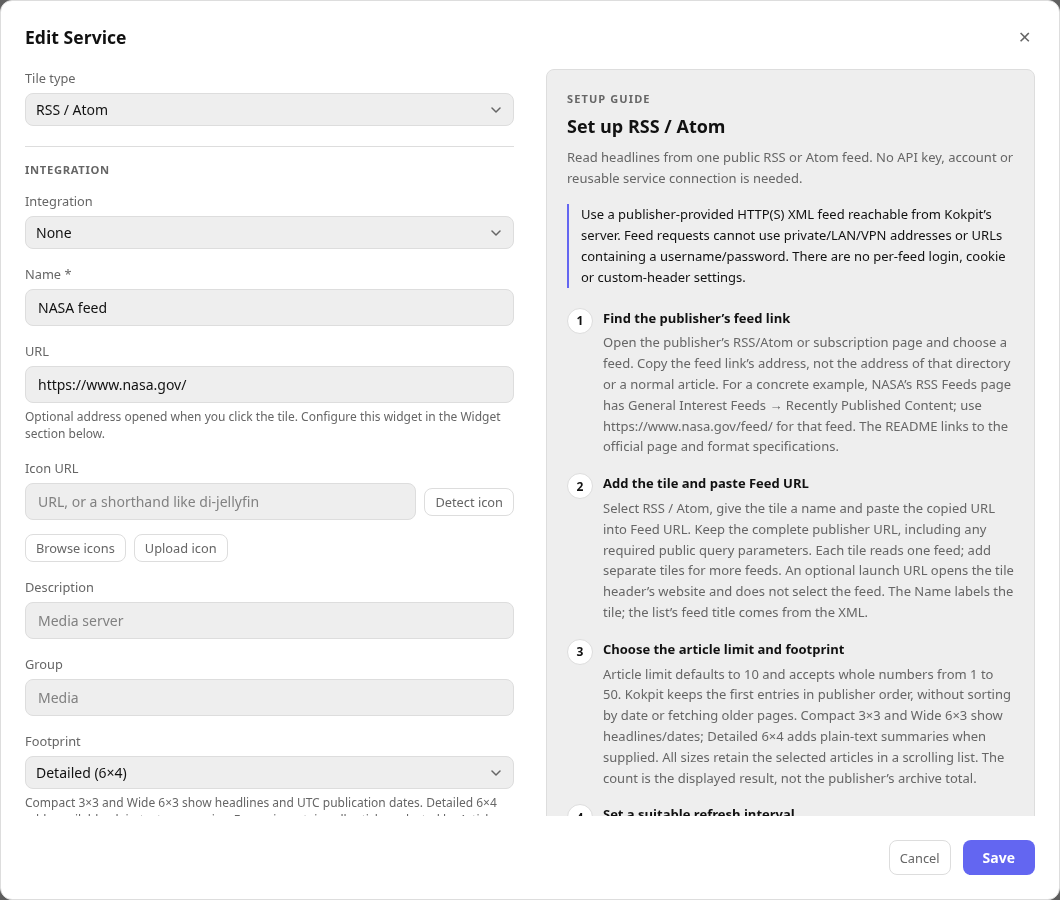
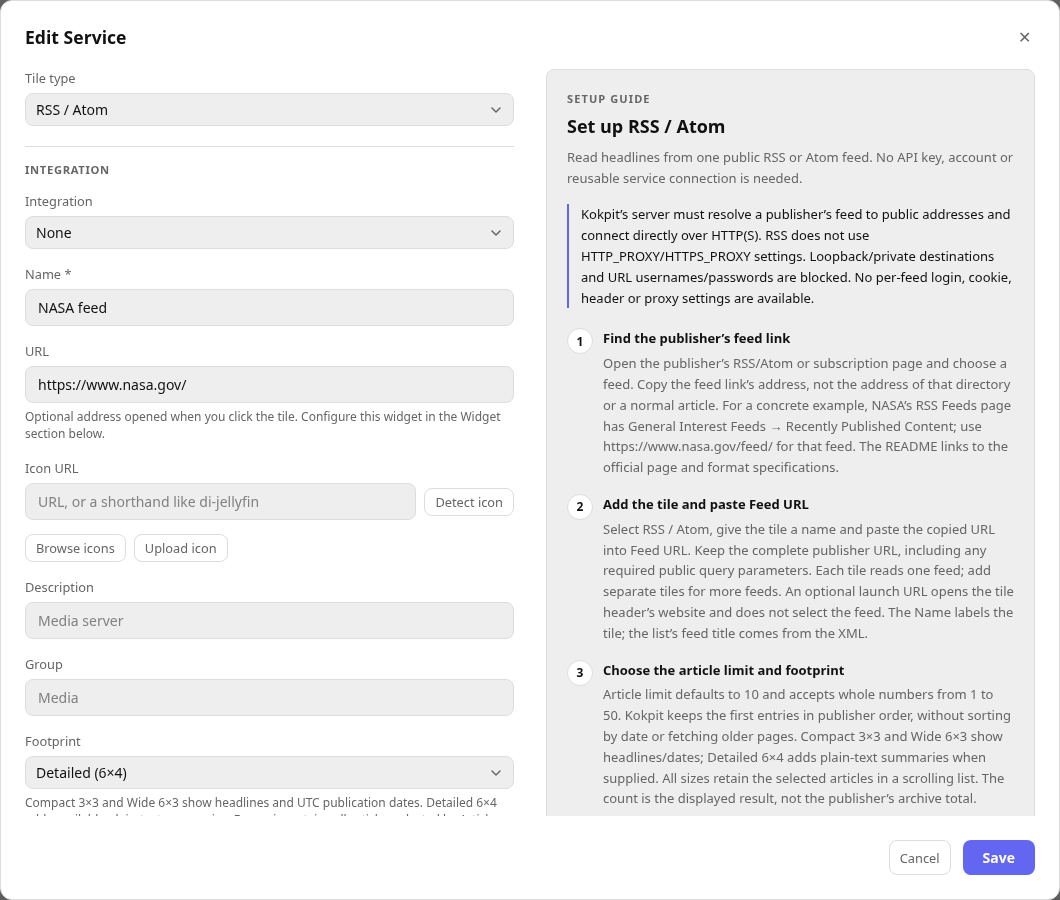
docs(rss): clarify direct network access requirement

Changed region(s): [[0.5292, 0.2178, 0.9651, 0.9333]]

diff --git a/src/integrations/rss/setupGuide.ts b/src/integrations/rss/setupGuide.ts
@@ -3,7 +3,7 @@ import type { WidgetSetupGuide } from "@/widgets";
 export const rssSetupGuide: WidgetSetupGuide = {
   title: "Set up RSS / Atom",
   summary: "Read headlines from one public RSS or Atom feed. No API key, account or reusable service connection is needed.",
-  requirement: "Use a publisher-provided HTTP(S) XML feed reachable from Kokpit’s server. Feed requests cannot use private/LAN/VPN addresses or URLs containing a username/password. There are no per-feed login, cookie or custom-header settings.",
+  requirement: "Kokpit’s server must resolve a publisher’s feed to public addresses and connect directly over HTTP(S). RSS does not use HTTP_PROXY/HTTPS_PROXY settings. Loopback/private destinations and URL usernames/passwords are blocked. No per-feed login, cookie, header or proxy settings are available.",
   steps: [
     {
       title: "Find the publisher’s feed link",
@@ -33,7 +33,7 @@ export const rssSetupGuide: WidgetSetupGuide = {
     },
     {
       title: "It opens in my browser but Kokpit cannot fetch it",
-      description: "The server/container must reach the feed and every redirect target through public addresses. Localhost, private networks, metadata endpoints and mixed public/private DNS answers are blocked for feeds. A browser’s login session/cookies are not copied to Kokpit, and embedded URL usernames/passwords are rejected. Check public DNS, outbound HTTP(S), proxy and trusted certificates. Feed URL is ordinary configuration, not a masked secret field; use a public publisher feed rather than a URL containing private credentials.",
+      description: "The server/container must resolve feed/redirect hosts to public addresses and connect to them directly over HTTP(S). RSS fetches do not use inherited HTTP(S) forward-proxy settings, including HTTP_PROXY/HTTPS_PROXY. There is no per-feed proxy option; a deployment requiring a forward proxy cannot use that route for this fetcher. Localhost, private networks, metadata endpoints and mixed public/private DNS answers are blocked for feeds. A browser’s login session/cookies are not copied to Kokpit, and embedded URL usernames/passwords are rejected. Check DNS resolution, permitted direct outbound HTTP(S) and trusted certificates. Feed URL is ordinary configuration, not a masked secret field; use a public publisher feed rather than a URL containing private credentials.",
     },
     {
       title: "Fewer articles, unexpected order or old content",

diff --git a/src/integrations/rss/widget.tsx b/src/integrations/rss/widget.tsx
@@ -29,7 +29,7 @@ export function RssWidget({ data, loading, error, footprint }: WidgetProps<RssDa
   </WidgetBody>;
 }
 const FIELDS: WidgetConfigField[] = [
-  { key: "feed_url", label: "Feed URL", type: "url", required: true, placeholder: "https://example.com/feed.xml", description: "Required public HTTP(S) RSS/Atom XML feed, up to 2,048 characters, not a normal page or article. Copy the publisher’s feed link; one feed per tile. Kokpit fetches it server-side. Private/LAN/VPN destinations and URLs with username/password are blocked. No login/cookie/header fields are available." },
+  { key: "feed_url", label: "Feed URL", type: "url", required: true, placeholder: "https://example.com/feed.xml", description: "Required public HTTP(S) RSS/Atom XML feed, up to 2,048 characters, not a normal page or article. Copy the publisher’s feed link; one feed per tile. Kokpit connects directly from the server; HTTP_PROXY/HTTPS_PROXY are not used. Loopback/private destinations and URLs with username/password are blocked. No login/cookie/header fields are available." },
   { key: "max_items", label: "Article limit", type: "number", defaultValue: 10, description: "Whole numbers 1–50; default 10. Keep the first entries in publisher order, with scrolling at every size. This is a maximum, not archive pagination or a newest-first sort. The full feed is still downloaded and must fit its document limits." },
 ];
 registerWidget<RssConfig, RssData>({ id: "rss", name: "RSS / Atom", integrationType: null, configSchema: RssConfigSchema,

diff --git a/README.md b/README.md
@@ -865,7 +865,7 @@ Read one public feed per tile, with no service integration, account or API key. 
 4. Leave **Refresh interval (ms)** empty for `600000` (ten minutes), or use an interval suitable for the publisher. The minimum is `5000` (five seconds); more frequent polling and additional viewers increase requests. Each open tile polls independently. Feed TTL/push notifications do not automatically change Kokpit’s configured schedule.
 5. **Test** when enabled, then save the form and finish the normal dashboard save flow; otherwise save and inspect the list. Test fetches the draft feed before saving. Check the feed title, count and article links. A valid empty feed can pass Test and show **No articles in this feed**. A later refresh error can retain previously loaded articles with a warning.
 
-**When a feed fails:** the Kokpit server/container must reach every HTTP(S) destination and redirect through public addresses. Localhost, private/LAN/VPN networks, metadata endpoints and mixed public/private DNS answers are blocked for feeds. Browser CORS restrictions do not apply to this server fetch, but the browser’s login/cookies are not transferred, and JavaScript/bot challenges do not run. No per-feed login, cookie or custom-header fields exist; URLs with embedded username/password are rejected. Feed URL is ordinary configuration rather than a masked credential field: use the publisher’s public feed instead of a private credential-bearing URL. Check server DNS, outbound HTTP(S), proxy/trusted certificates and whether the response is XML rather than HTML or a login page. Lowering Article limit does not bypass document-size/XML restrictions. Publisher errors or rate limiting are reasons to keep/increase the interval rather than repeatedly testing.
+**When a feed fails:** the Kokpit server/container must resolve feed/redirect hosts to public addresses and connect to them directly over HTTP(S). RSS fetches do not use inherited forward-proxy settings such as `HTTP_PROXY`/`HTTPS_PROXY`; there is no per-feed proxy option, so a deployment requiring a forward proxy cannot use that route for this fetcher. Localhost, private address ranges (including typical LAN/VPN addresses), metadata endpoints and mixed public/private DNS answers are blocked for feeds. Browser CORS restrictions do not apply to this server fetch, but the browser’s login/cookies are not transferred, and JavaScript/bot challenges do not run. No per-feed login, cookie or custom-header fields exist; URLs with embedded username/password are rejected. Feed URL is ordinary configuration rather than a masked credential field: use the publisher’s public feed instead of a private credential-bearing URL. Check server DNS resolution, permitted direct outbound HTTP(S) and trusted certificates. Confirm the response is XML rather than HTML or a login page. Lowering Article limit does not bypass document-size/XML restrictions. Publisher errors or rate limiting are reasons to keep/increase the interval rather than repeatedly testing.
 
 Compact **3×3** and Wide **6×3** show headlines and publication dates; Detailed **6×4** adds plain-text summaries; binary Atom bodies are omitted. Every size retains the configured articles in feed order and uses a named, keyboard-scrollable list. Home/End reach the first/last article while the feed name and count stay fixed. Truncated headlines retain their full accessible link text and title tooltip. Publication dates use UTC and include the year; missing dates display “Date unavailable”. Articles without safe HTTP(S) links remain text. Article links open in a new tab; an optional service launch URL links only the tile header.
 
@@ -885,6 +885,8 @@ service_tiles:
 ```
 
 Every redirect destination is DNS-validated and pinned. Responses are limited to 2 MiB of UTF-8 XML; DTD/entity declarations are rejected, and nesting beyond 40 elements is rejected before DOM allocation. Common HTML named entities are supported in ordinary XML text while literal sections stay intact. Markup is parsed into inert text nodes, preserving escaped comparison signs and separating paragraphs; scripts/styles are omitted and feed HTML never executes in the dashboard. Text extraction processes at most 65,536 UTF-16 code units from each field, with 200-character feed titles and 500-character article titles/summaries. Empty or invalid summary/date fields try later alternatives. Safe RSS permalink GUIDs provide article links when a link is absent. Images, podcast media and linked full articles are not fetched or rendered. Missing dates show **Date unavailable**, missing article titles **Untitled article**, and missing usable HTTP(S) links leave plain headlines. Refresh errors preserve previously loaded articles and scroll position with the shared notice. No request is made until a feed is configured.
+
+The feed client passes its own pinned Undici dispatcher. Undici’s [Agent](https://github.com/nodejs/undici/blob/v8.9.0/docs/docs/api/Agent.md) and [EnvHttpProxyAgent](https://github.com/nodejs/undici/blob/v8.9.0/docs/docs/api/EnvHttpProxyAgent.md) documentation distinguish that direct agent from explicitly configured proxy routing; environment variables alone do not reconfigure this path.
 
 ### Weather (Open-Meteo)
 

diff --git a/docs/integration-setup-guidance-proposal.md b/docs/integration-setup-guidance-proposal.md
@@ -328,9 +328,9 @@ Checked 24 October 2026 against Open-Meteo’s [forecast API](https://open-meteo
 
 ### RSS / Atom documentation and implementation evidence
 
-Checked 24 October 2026 against the primary [RSS 2.0 specification](https://www.rssboard.org/rss-specification), [RSS 1.0/RDF specification](https://web.resource.org/rss/1.0/spec), [Atom RFC 4287](https://www.rfc-editor.org/rfc/rfc4287) and [NASA’s official RSS Feeds page](https://www.nasa.gov/rss-feeds/). The documentation footer opens Kokpit’s RSS / Atom reference containing all four sources and the application-specific constraints.
+Checked 24 October 2026 against the primary [RSS 2.0 specification](https://www.rssboard.org/rss-specification), [RSS 1.0/RDF specification](https://web.resource.org/rss/1.0/spec), [Atom RFC 4287](https://www.rfc-editor.org/rfc/rfc4287), [NASA’s official RSS Feeds page](https://www.nasa.gov/rss-feeds/) and the installed Undici 8.9.0 primary references for [Agent](https://github.com/nodejs/undici/blob/v8.9.0/docs/docs/api/Agent.md) / [EnvHttpProxyAgent](https://github.com/nodejs/undici/blob/v8.9.0/docs/docs/api/EnvHttpProxyAgent.md). The documentation footer opens Kokpit’s RSS / Atom reference containing the format/publisher/transport sources and application-specific constraints.
 
 - **Obtaining the URL:** five editor steps find/copy an actual publisher feed link, configure one tile, choose limit/footprint, choose refresh and test/save. NASA’s General Interest Feeds → Recently Published Content links directly to https://www.nasa.gov/feed/; the primary page’s HTML confirms the href. One proxy-respecting download produced 289,378 bytes of valid UTF-8 RSS, below 2 MiB. The existing Kokpit parseFeed function parsed the same document as NASA with ten articles, ten links and available summaries. This checks the concrete guide example without claiming a live Kokpit server-to-publisher network test. No third-party feed directory was used as authority.
-- **Transport and restrictions:** inspected api.ts, server.ts, ServiceForm and ssrfGuard.ts. Feed URL is a required HTTP(S) URL of at most 2,048 characters, without embedded username/password. Requests run on the server; redirects are individually DNS-validated/pinned, and private/loopback/LAN/VPN/metadata or mixed public/private answers are denied. Browser cookies/login, CORS permissions and JavaScript challenges do not transfer to the server request. No per-feed auth/header settings exist; the URL is ordinary configuration rather than a masked secret. The guide directs users to public feeds without falsely claiming query-string URLs are rejected.
+- **Transport and restrictions:** inspected api.ts, server.ts, ServiceForm and ssrfGuard.ts. Feed URL is a required HTTP(S) URL of at most 2,048 characters, without embedded username/password. Requests run on the server using a custom pinned Agent dispatcher, which does not construct/use EnvHttpProxyAgent or inherited HTTP(S) forward-proxy variables. Direct outbound HTTP(S) access and feed hosts resolving to public addresses are required; there is no per-feed proxy setting. This follows the installed/tagged Undici dispatcher contract and actual request path; the example’s proxy-respecting curl download is deliberately not presented as proof of live Kokpit transport. Redirects are individually DNS-validated/pinned, and non-public/metadata or mixed public/private answers are denied. Browser cookies/login, CORS permissions and JavaScript challenges do not transfer to the server request. No per-feed auth/header settings exist; the URL is ordinary configuration rather than a masked secret. The guide directs users to public feeds without falsely claiming query-string URLs are rejected.
 - **Parser and display:** verified RSS 2.0 channel/items, RSS 1.0 publisher sequence and Atom entries/alternate links, relative link bases and text/date fallbacks. The full feed is fetched before the first 1–50/default 10 entries are retained; the limit does not bypass the 2 MiB UTF-8/document-depth/DTD constraints. Publisher order is retained, with no date sort, archive pagination, multi-feed merge, keyword filtering or unread state. Every footprint retains the selected entries in a scrolling list. Compact 3×3/Wide 6×3 show headlines/dates, Detailed 6×4 adds available plain-text summaries. Feed title/count stay fixed; count is retained results, not archive size. Dates use UTC/year; title/summary and missing-link behavior are explicit. Images/media/linked full articles are not fetched/rendered.
 - **Options, tests and failures:** both fields explain defaults/validation and effect; footprint and shared refresh help cover all sizes and the ten-minute default/five-second minimum. Each open tile polls independently; feed TTL/push do not schedule requests. Test fetches the draft URL and can succeed with an empty feed or missing optional article fields. Help covers HTML/login/JSON responses, malformed/oversized/non-UTF-8 XML, private destinations, DNS/trust/outbound failures, rate limits and stale data. The shared outdated-instructions/GitHub-issue notice applies. Editor screenshots use isolated example settings; schemas, fetch/parser logic, renderer, link handling and tile geometry remain unchanged.
